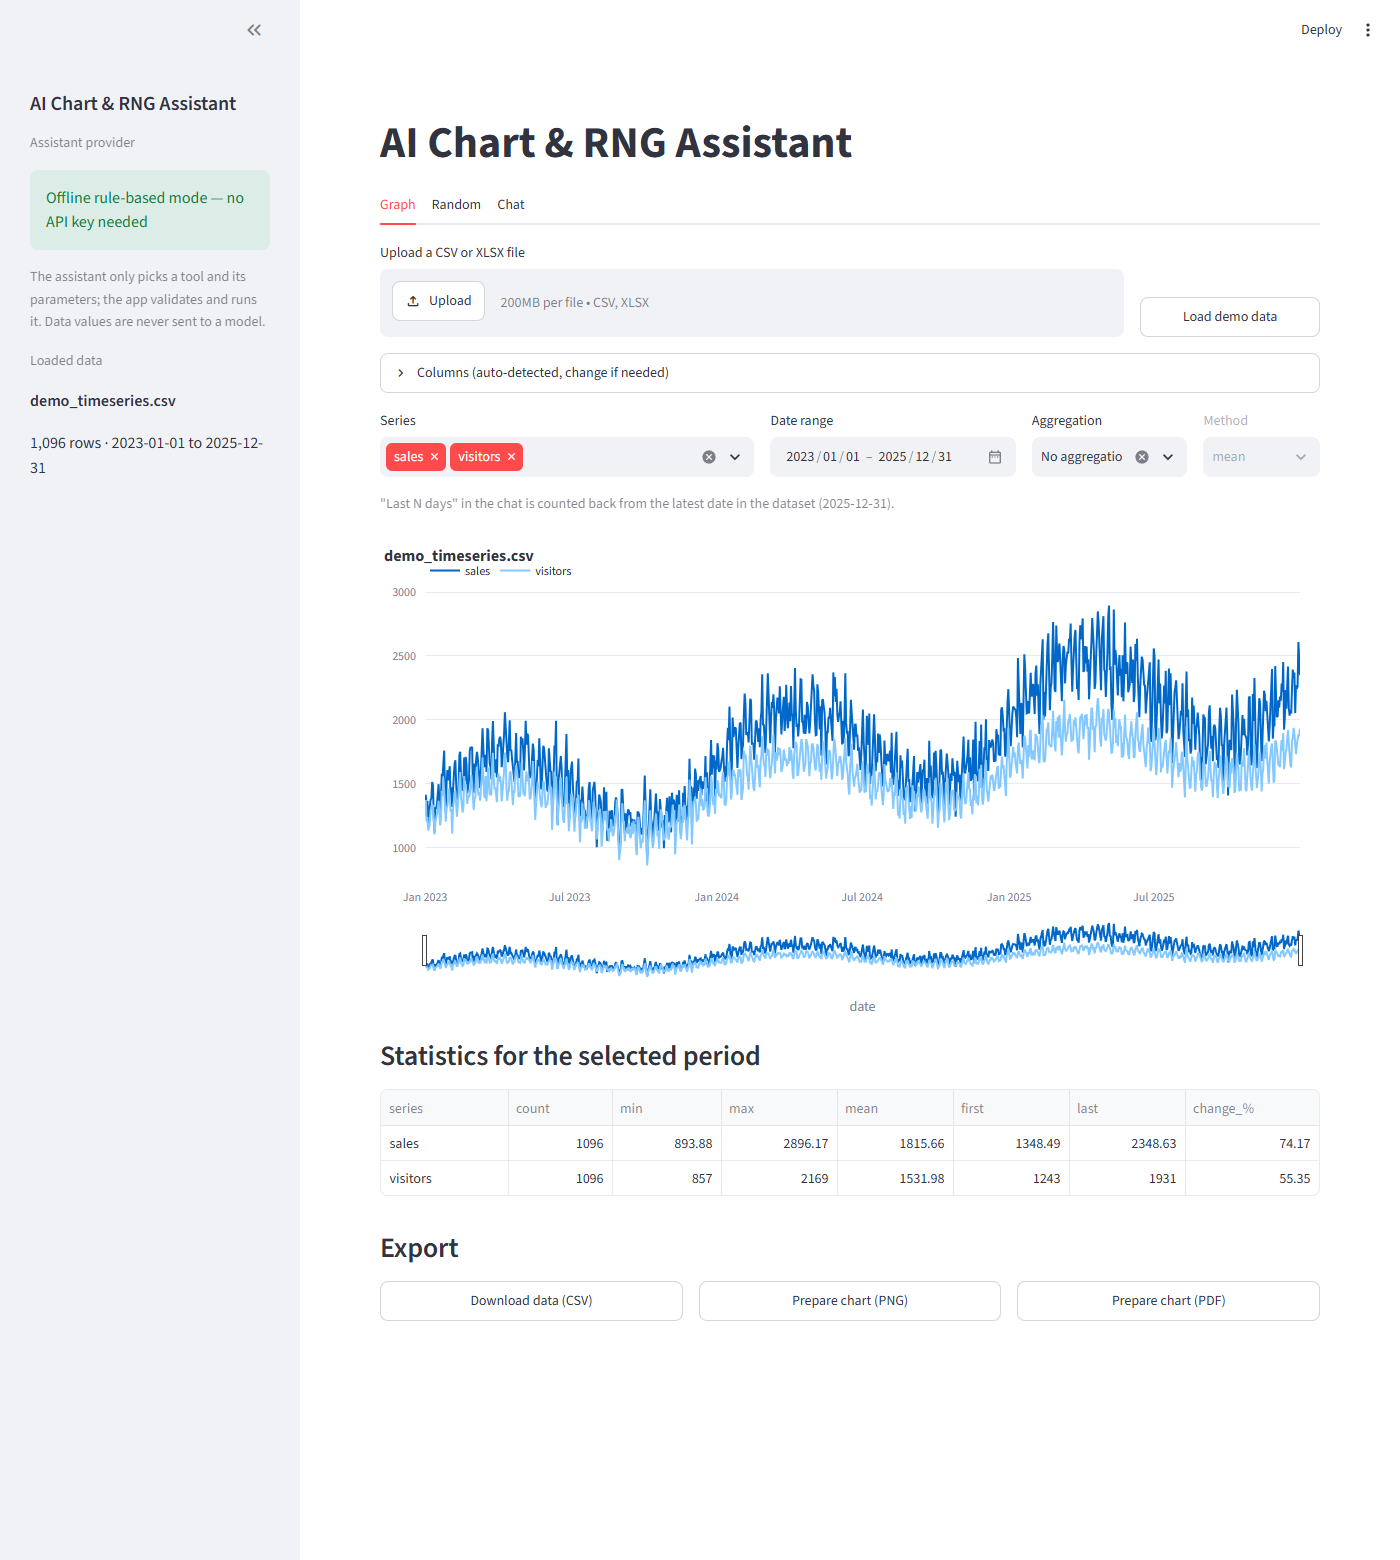
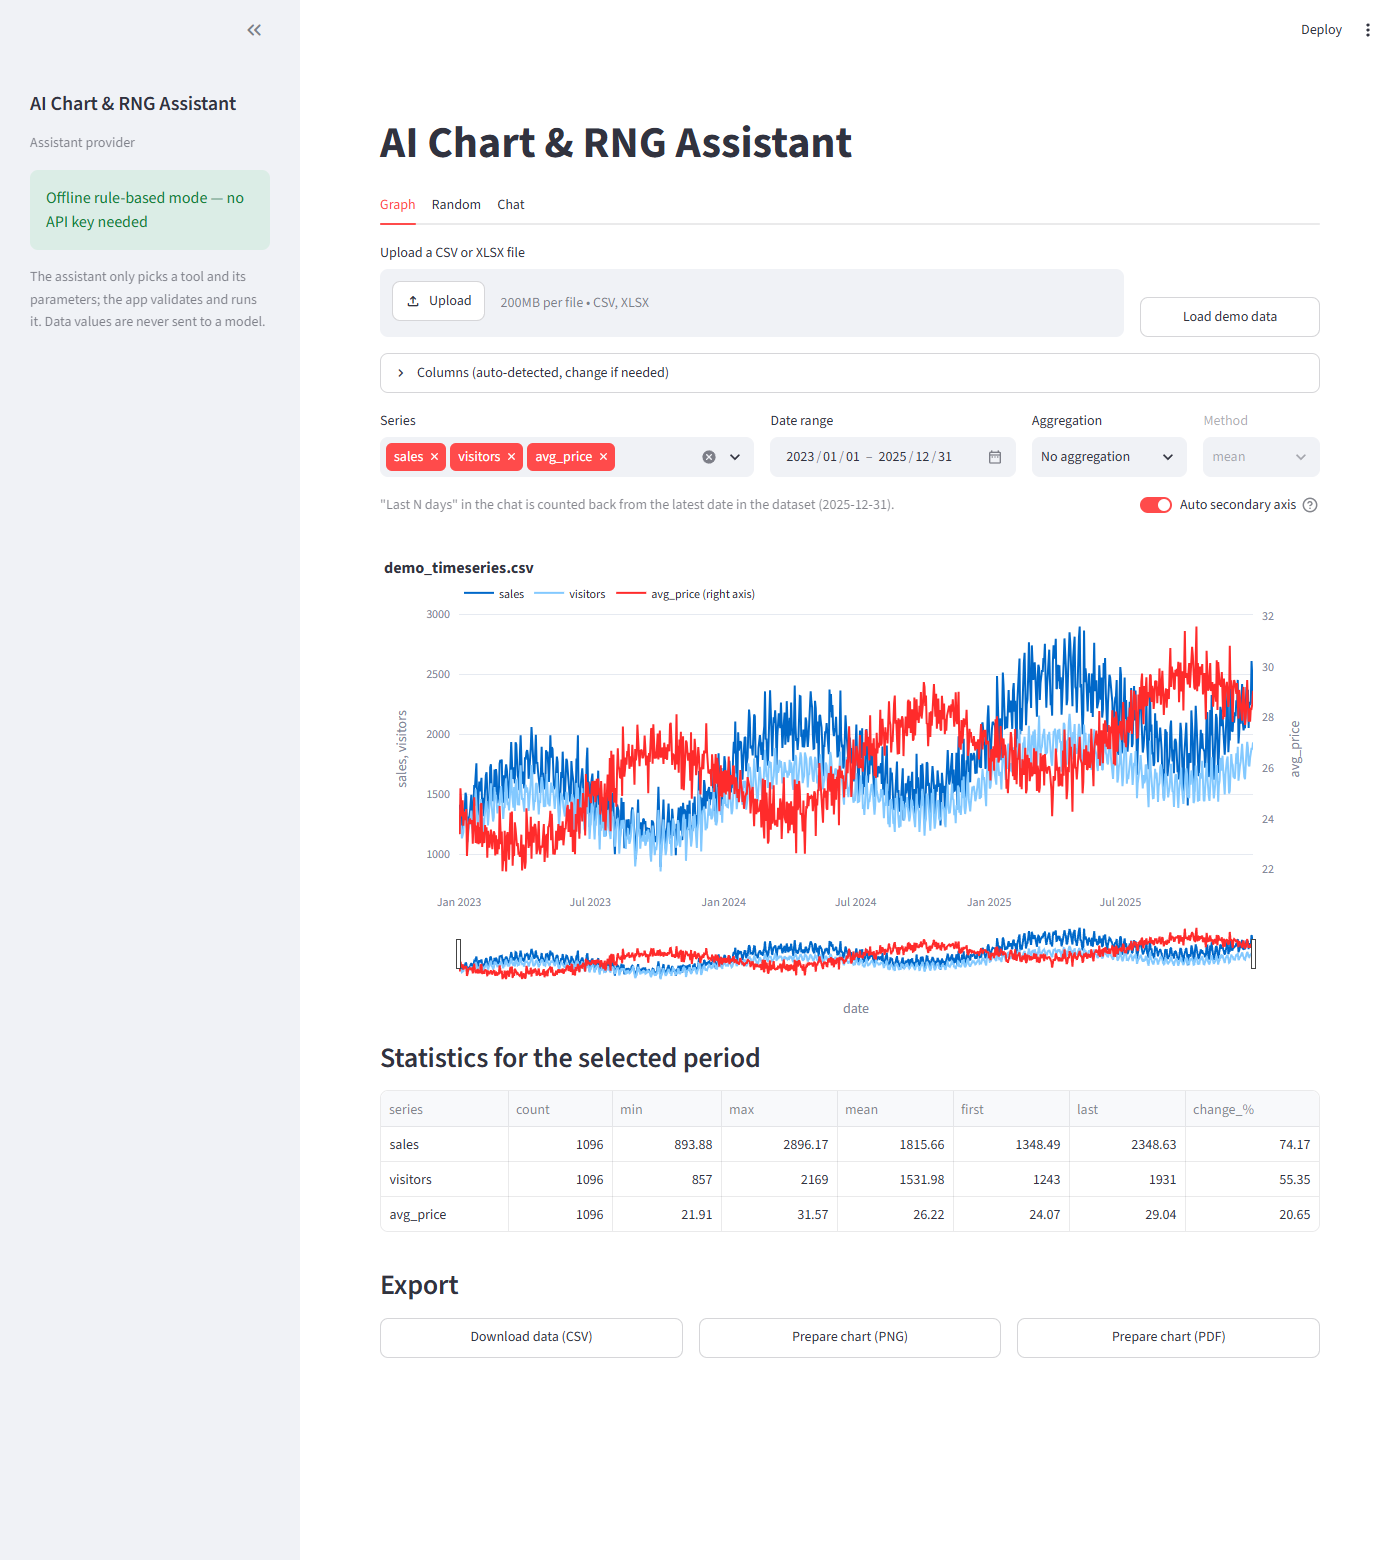
Polish RNG inputs and refresh demo media
Integer mode shows whole numbers in Min/Max (the type switch now sits above the form so the inputs redraw at once) and disables the decimals input. New Graph and Random screenshots, a shorter demo GIF, and README notes on the secondary axis and render limits.

diff --git a/app/ui/rng_tab.py b/app/ui/rng_tab.py
@@ -2,6 +2,8 @@
 
 from __future__ import annotations
 
+import math
+
 import streamlit as st
 
 from app.assistant.providers.base import ToolCall
@@ -31,23 +33,36 @@ def render(state: AppState) -> None:
     )
     params = {**DEFAULTS, **(state.numbers_params or {})}
 
-    # The form key includes the revision, so values set from the chat show up here.
+    # The type sits outside the form so that switching it immediately redraws Min/Max
+    # as whole numbers (integers) or decimals (floats). Keys include the revision, so
+    # values set from the chat show up here.
+    kind = st.radio(
+        "Type",
+        ["int", "float"],
+        index=["int", "float"].index(params["kind"]),
+        format_func={"int": "Integers", "float": "Floats"}.get,
+        horizontal=True,
+        key=f"rng_kind_{state.revision}",
+    )
     with st.form(f"rng_form_{state.revision}"):
         count_col, low_col, high_col = st.columns(3)
         count = count_col.number_input("Count", 1, MAX_COUNT, value=int(params["count"]), step=1)
-        low = low_col.number_input("Min", value=float(params["low"]), step=1.0)
-        high = high_col.number_input("Max", value=float(params["high"]), step=1.0)
+        if kind == "int":
+            # Whole numbers inside the previous range (e.g. after switching from floats).
+            low = low_col.number_input("Min", value=math.ceil(params["low"]), step=1)
+            high = high_col.number_input("Max", value=math.floor(params["high"]), step=1)
+        else:
+            low = low_col.number_input("Min", value=float(params["low"]), step=1.0)
+            high = high_col.number_input("Max", value=float(params["high"]), step=1.0)
 
-        kind_col, decimals_col, seed_col = st.columns(3)
-        kind = kind_col.radio(
-            "Type",
-            ["int", "float"],
-            index=["int", "float"].index(params["kind"]),
-            format_func={"int": "Integers", "float": "Floats"}.get,
-            horizontal=True,
-        )
+        decimals_col, seed_col = st.columns(2)
         decimals = decimals_col.number_input(
-            "Decimals (floats only)", 0, MAX_DECIMALS, value=int(params["decimals"]), step=1
+            "Decimals (floats only)",
+            0,
+            MAX_DECIMALS,
+            value=int(params["decimals"]),
+            step=1,
+            disabled=kind == "int",
         )
         seed = seed_col.number_input(
             "Seed (optional)", min_value=0, value=params["seed"], step=1, placeholder="Random"
@@ -65,8 +80,8 @@ def render(state: AppState) -> None:
     if submitted:
         arguments = {
             "count": int(count),
-            "low": int(low) if kind == "int" and low.is_integer() else low,
-            "high": int(high) if kind == "int" and high.is_integer() else high,
+            "low": low,
+            "high": high,
             "kind": kind,
             "decimals": int(decimals),
             "unique": unique,

diff --git a/tests/test_rng_tab.py b/tests/test_rng_tab.py
@@ -1,0 +1,64 @@
+"""Random tab: integer mode shows whole numbers, including values filled from the chat."""
+
+from __future__ import annotations
+
+from pathlib import Path
+
+from streamlit.testing.v1 import AppTest
+
+APP_PATH = str(Path(__file__).resolve().parent.parent / "app" / "main.py")
+
+
+def _number(at: AppTest, label: str):
+    return next(widget for widget in at.number_input if widget.label == label)
+
+
+def _type_radio(at: AppTest):
+    return next(widget for widget in at.radio if widget.label == "Type")
+
+
+def test_integer_mode_shows_whole_numbers() -> None:
+    at = AppTest.from_file(APP_PATH, default_timeout=60).run()
+    low, high = _number(at, "Min"), _number(at, "Max")
+    assert (low.value, high.value) == (1, 100)
+    assert isinstance(low.value, int) and isinstance(high.value, int)
+    assert _number(at, "Decimals (floats only)").disabled
+
+    _type_radio(at).set_value("float").run()
+    low = _number(at, "Min")
+    assert isinstance(low.value, float) and low.value == 1.0
+    assert not _number(at, "Decimals (floats only)").disabled
+    assert not at.exception
+
+
+def test_chat_filled_form_shows_integers() -> None:
+    at = AppTest.from_file(APP_PATH, default_timeout=60).run()
+    at.chat_input[0].set_value("give me 50 random integers between 10 and 100").run()
+    low, high = _number(at, "Min"), _number(at, "Max")
+    assert (low.value, high.value) == (10, 100)
+    assert isinstance(low.value, int) and isinstance(high.value, int)
+    assert _number(at, "Count").value == 50
+    assert _type_radio(at).value == "int"
+    assert not at.exception
+
+
+def test_chat_filled_float_form_keeps_decimals() -> None:
+    at = AppTest.from_file(APP_PATH, default_timeout=60).run()
+    at.chat_input[0].set_value("5 random floats between 0 and 1 with 3 decimals").run()
+    low, high = _number(at, "Min"), _number(at, "Max")
+    assert isinstance(low.value, float) and (low.value, high.value) == (0.0, 1.0)
+    assert _type_radio(at).value == "float"
+    assert _number(at, "Decimals (floats only)").value == 3
+
+
+def test_generate_from_form_in_integer_mode() -> None:
+    at = AppTest.from_file(APP_PATH, default_timeout=60).run()
+    _number(at, "Min").set_value(5)
+    _number(at, "Max").set_value(9)
+    _number(at, "Count").set_value(20)
+    next(b for b in at.button if b.label == "Generate").click().run()
+    assert not at.error
+    result = at.code[0]
+    values = [int(v) for v in result.value.split(", ")]
+    assert len(values) == 20 and all(5 <= v <= 9 for v in values)
+    assert not at.exception

diff --git a/README.md b/README.md
@@ -18,8 +18,9 @@ Interactive time series charts, a random number generator and a chat assistant t
 - Upload a CSV or XLSX file, or load the bundled synthetic demo data (3 years of daily values).
 - Date and numeric columns are detected automatically and can be changed manually. CSV files may be UTF-8 (with or without BOM), cp1252 or latin-1, separated by commas, semicolons, tabs or pipes.
 - Interactive Plotly chart with multiple series, hover, zoom and a range slider; date range filter; daily, weekly or monthly aggregation (mean, sum, min, max).
+- Automatic secondary y-axis: a series more than 10× smaller than the largest one (by median absolute value of the plotted data) moves to a right-hand axis, marked "(right axis)" in the legend, so it does not sit flat at zero. It can be switched off with the **Auto secondary axis** toggle.
 - Statistics for the selected period: count, min, max, mean, first, last and % change.
-- Export the shown data as CSV and the chart as PNG or PDF. Images are rendered only on request and need Chrome or Chromium; without it, the rest of the app keeps working.
+- Export the shown data as CSV and the chart as PNG or PDF. Images are rendered only on request, one at a time per session, and need Chrome or Chromium; without it, the rest of the app keeps working.
 
 **Random number generator**
 - Up to 1,000,000 integers or floats (0–6 decimals) in an inclusive range.
@@ -129,7 +130,7 @@ ruff check .
 ruff format --check .
 ```
 
-The tests cover data loading (CSV encodings and separators, column detection, friendly errors), filtering, aggregation and statistics; the random number generator and its limits; tool parameter validation and execution; the offline parser's phrases; chat actions updating the shared app state; the Gemini provider, its schema conversion and the offline fallback; and image export caching, retries and timeouts, including Streamlit UI tests of the export buttons. They need no network, no API key and no Chrome: the Gemini client and image rendering are mocked. CI runs them on Python 3.11, 3.12, 3.13 and 3.14.
+The tests cover data loading (CSV encodings and separators, column detection, friendly errors), filtering, aggregation and statistics; the secondary-axis rule; the random number generator and its limits; tool parameter validation and execution; the offline parser's phrases; chat actions updating the shared app state; the Gemini provider, its schema conversion and the offline fallback; image export caching, retries, timeouts and render limits; and Streamlit UI tests of the export buttons and the Random tab form. They need no network, no API key and no Chrome: the Gemini client and image rendering are mocked. CI runs them on Python 3.11, 3.12, 3.13 and 3.14.
 
 To regenerate the demo data: `python scripts/make_demo_data.py`.
 
